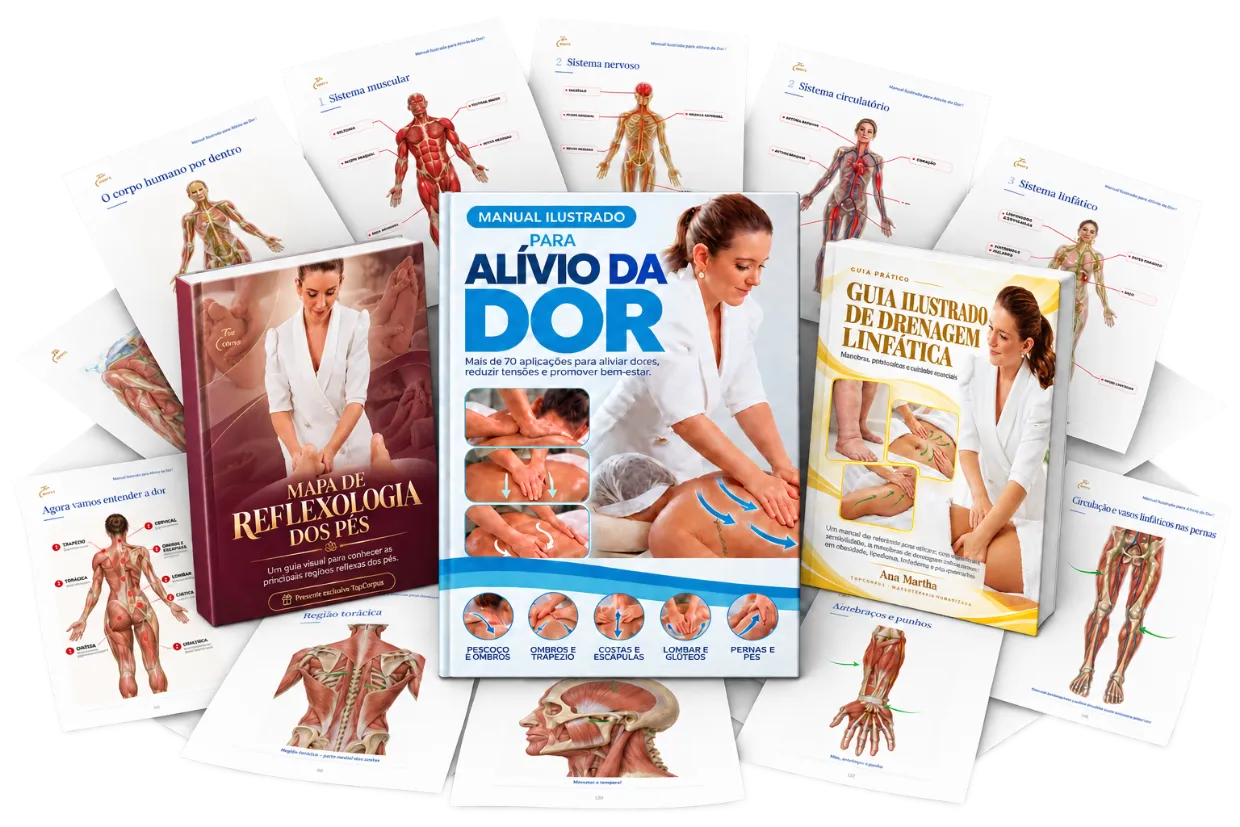
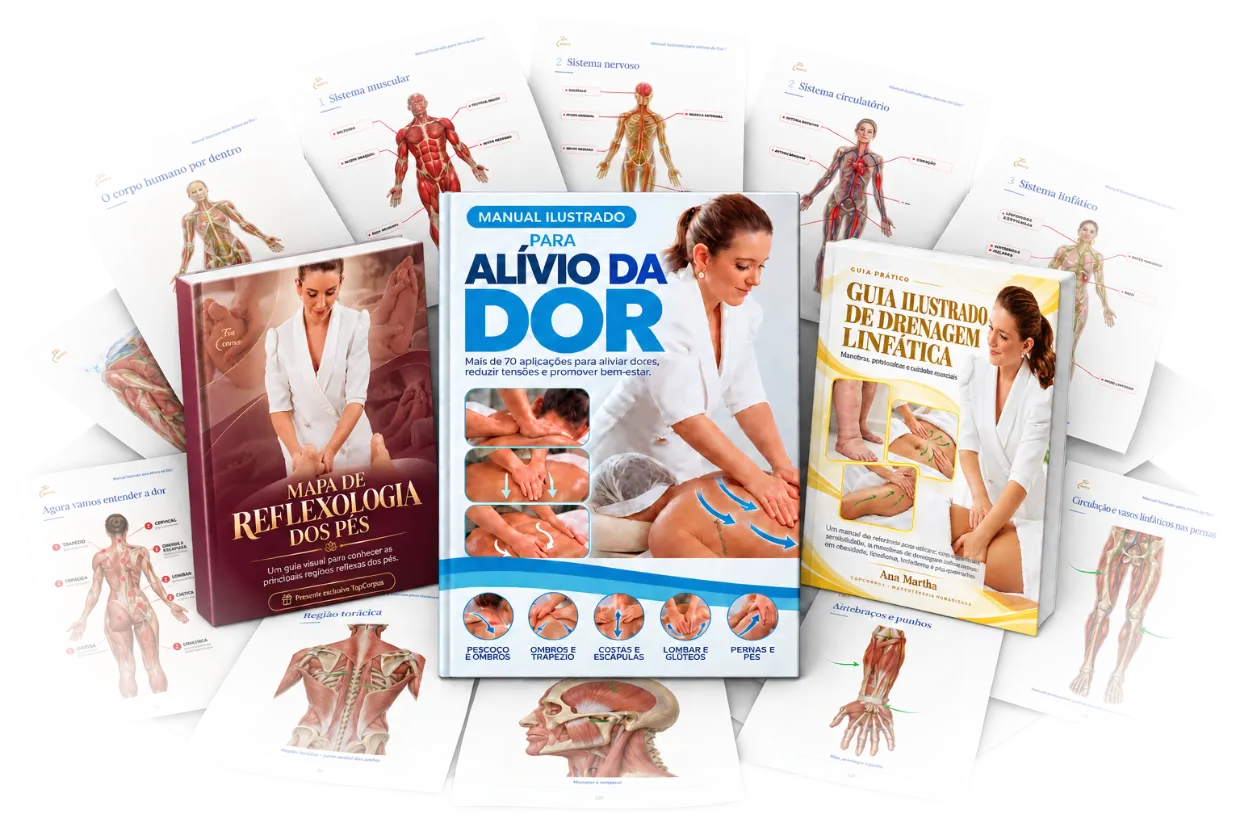
Tira a moldura do mockup do hero
Sem canto arredondado, sombra ou fundo — a imagem fica solta na dobra.

O que segurava a moldura era a vinheta da foto original, que fecha em
cinza escuro nos cantos e, sem borda, viraria um retângulo na página. A
correção é no arquivo, não no CSS: o WebP passa a levar um alfa que
dissolve esse anel, então a imagem termina no ar. 184 KB com o canal,
contra 164 KB sem — a codificação continua saindo pelo canvas do Chrome.

diff --git a/lt-v1-27/assets/css/manual.css b/lt-v1-27/assets/css/manual.css
@@ -77,19 +77,16 @@
 /* O mockup do hero. O doc pede "bem grande e destacado": é a única imagem
    da dobra, então ela ocupa a largura que sobrou do logo e do retrato.
 
-   O fundo da foto é uma vinheta que fecha em cinza escuro nos cantos. Numa
-   dobra clara isso só funciona se a imagem se assumir como foto: cantos
-   arredondados e sombra, lida como um objeto pousado na página, e não como
-   um retângulo escuro que alguém esqueceu de recortar. */
+   Sem moldura: nada de canto arredondado, sombra ou fundo. A foto original
+   vinha com uma vinheta que fechava em cinza escuro nos cantos, e o que
+   resolve isso é o próprio arquivo — o WebP carrega um alfa que dissolve
+   esse anel, então a imagem termina no ar em vez de terminar numa borda. */
 .mn-hero__mock {
   /* No desktop ele para em 470px: maior que isso a foto passa a competir
      com a manchete, que é quem tem de ser lida primeiro. No celular o
      min() já entrega os 100% da coluna, sem precisar de media query. */
   width: min(100%, 470px);
   margin: 0 auto;
-  border-radius: var(--tp-radius);
-  overflow: hidden;
-  box-shadow: var(--tp-shadow-md);
 }
 .mn-hero__mock img {
   display: block;

diff --git a/lt-v1-67/assets/css/manual.css b/lt-v1-67/assets/css/manual.css
@@ -77,19 +77,16 @@
 /* O mockup do hero. O doc pede "bem grande e destacado": é a única imagem
    da dobra, então ela ocupa a largura que sobrou do logo e do retrato.
 
-   O fundo da foto é uma vinheta que fecha em cinza escuro nos cantos. Numa
-   dobra clara isso só funciona se a imagem se assumir como foto: cantos
-   arredondados e sombra, lida como um objeto pousado na página, e não como
-   um retângulo escuro que alguém esqueceu de recortar. */
+   Sem moldura: nada de canto arredondado, sombra ou fundo. A foto original
+   vinha com uma vinheta que fechava em cinza escuro nos cantos, e o que
+   resolve isso é o próprio arquivo — o WebP carrega um alfa que dissolve
+   esse anel, então a imagem termina no ar em vez de terminar numa borda. */
 .mn-hero__mock {
   /* No desktop ele para em 470px: maior que isso a foto passa a competir
      com a manchete, que é quem tem de ser lida primeiro. No celular o
      min() já entrega os 100% da coluna, sem precisar de media query. */
   width: min(100%, 470px);
   margin: 0 auto;
-  border-radius: var(--tp-radius);
-  overflow: hidden;
-  box-shadow: var(--tp-shadow-md);
 }
 .mn-hero__mock img {
   display: block;

diff --git a/lt-v1-97/assets/css/manual.css b/lt-v1-97/assets/css/manual.css
@@ -77,19 +77,16 @@
 /* O mockup do hero. O doc pede "bem grande e destacado": é a única imagem
    da dobra, então ela ocupa a largura que sobrou do logo e do retrato.
 
-   O fundo da foto é uma vinheta que fecha em cinza escuro nos cantos. Numa
-   dobra clara isso só funciona se a imagem se assumir como foto: cantos
-   arredondados e sombra, lida como um objeto pousado na página, e não como
-   um retângulo escuro que alguém esqueceu de recortar. */
+   Sem moldura: nada de canto arredondado, sombra ou fundo. A foto original
+   vinha com uma vinheta que fechava em cinza escuro nos cantos, e o que
+   resolve isso é o próprio arquivo — o WebP carrega um alfa que dissolve
+   esse anel, então a imagem termina no ar em vez de terminar numa borda. */
 .mn-hero__mock {
   /* No desktop ele para em 470px: maior que isso a foto passa a competir
      com a manchete, que é quem tem de ser lida primeiro. No celular o
      min() já entrega os 100% da coluna, sem precisar de media query. */
   width: min(100%, 470px);
   margin: 0 auto;
-  border-radius: var(--tp-radius);
-  overflow: hidden;
-  box-shadow: var(--tp-shadow-md);
 }
 .mn-hero__mock img {
   display: block;
